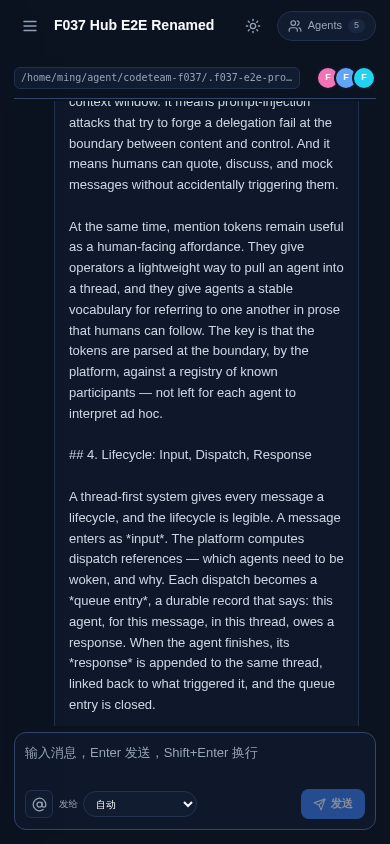
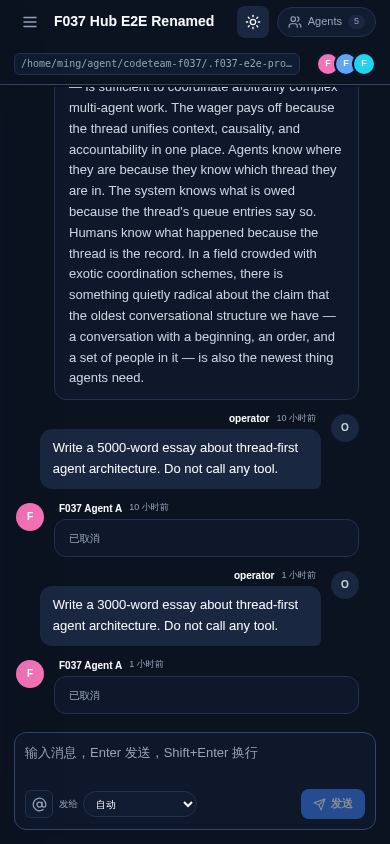
fix(f040): tighten header spacing and full-bleed divider
Why: operator follow-up asked to move the project path closer to the thread title and extend the divider to the main-area left border. ThreadPage is split into centered head/body sections with a full-width divider sibling; topbar/header spacing is reduced; Pencil design and exports are synced.

Changed region(s): [[0.0308, 0.0, 0.9538, 0.8626], [0.8615, 0.4929, 0.8923, 0.5237]]

diff --git a/packages/superagentteam-web/src/app/ThreadPage.tsx b/packages/superagentteam-web/src/app/ThreadPage.tsx
@@ -194,8 +194,9 @@ export function ThreadPage() {
 		name: agents.find((agent) => agent.id === id)?.displayName ?? id,
 	}));
 	return (
-		<section className="st-thread-page" aria-busy={!chatMatches || chatStatus === "loading"}>
-			<header className="st-thread-header">
+		<>
+			<section className="st-thread-page-head" aria-busy={!chatMatches || chatStatus === "loading"}>
+				<header className="st-thread-header">
 				<div className="st-thread-meta-row">
 					<div className="st-thread-header-meta">
 						<code title={thread.projectPath}>{thread.projectPath}</code>
@@ -215,8 +216,10 @@ export function ThreadPage() {
 						</div>
 					) : null}
 				</div>
-			</header>
+				</header>
+			</section>
 			<div className="st-thread-divider" data-testid="thread-header-divider" aria-hidden="true" />
+			<section className="st-thread-page-body" aria-busy={!chatMatches || chatStatus === "loading"}>
 			{deleted ? <p className="st-thread-deleted">这个对话已删除，历史只读。</p> : null}
 			{realtimeStatus === "fallback" ? (
 				<p className="st-realtime-note" role="status">
@@ -284,6 +287,7 @@ export function ThreadPage() {
 				disabled={deleted}
 				disabledReason="这个对话已删除，不能再发送消息。"
 			/>
-		</section>
+			</section>
+		</>
 	);
 }

diff --git a/packages/superagentteam-web/src/styles/global.css b/packages/superagentteam-web/src/styles/global.css
@@ -704,7 +704,7 @@ svg {
 }
 
 .st-topbar {
-	height: 56px;
+	height: 48px;
 	flex: none;
 	display: flex;
 	align-items: center;
@@ -787,6 +787,8 @@ svg {
 	flex: 1;
 	min-height: 0;
 	overflow: hidden;
+	display: flex;
+	flex-direction: column;
 }
 
 .st-live-pills {
@@ -957,16 +959,23 @@ svg {
 	font-size: 12px;
 }
 
-.st-thread-page {
-	height: 100%;
+.st-thread-page-head {
+	flex: none;
 	width: 100%;
 	max-width: 980px;
 	margin: 0 auto;
+	padding: 0 24px;
+}
+
+.st-thread-page-body {
+	flex: 1;
+	min-height: 0;
+	width: 100%;
+	max-width: 980px;
+	margin: 0 auto;
+	padding: 0 24px;
 	display: flex;
 	flex-direction: column;
-	gap: 0;
-	min-height: 0;
-	padding: 0 24px;
 }
 
 .st-thread-header {
@@ -974,7 +983,7 @@ svg {
 	display: flex;
 	flex-direction: column;
 	gap: 6px;
-	padding: 10px 0 8px;
+	padding: 2px 0 8px;
 }
 
 .st-thread-divider {
@@ -2877,7 +2886,7 @@ svg {
 	}
 
 	.st-topbar {
-		height: 52px;
+		height: 44px;
 		padding: 0 14px;
 	}
 
@@ -2897,13 +2906,13 @@ svg {
 		padding: 0;
 	}
 
-	.st-thread-page {
-		max-width: none;
+	.st-thread-page-head,
+	.st-thread-page-body {
 		padding: 0 14px;
 	}
 
 	.st-thread-header {
-		padding-top: 14px;
+		padding-top: 8px;
 	}
 
 	.st-thread-members-count {

diff --git a/docs/features/F040-thread-actions-divider.md b/docs/features/F040-thread-actions-divider.md
@@ -19,8 +19,9 @@ F039 合并后，operator 在验收时又给了两条修正：
 
 1. thread 页内的“重命名”入口应该去掉；所有 thread 编辑都收进 thread 列表行的
    “更多操作”菜单，和 Clowder 的交互一致。
-2. 分隔线不应该紧贴 thread 标题；应下移到项目路径行下方，并横向铺到聊天区左侧。
+2. 分隔线不应该紧贴 thread 标题；应下移到项目路径行下方，并连到主内容区左边框。
 3. 侧栏标题下的 `3 conversations · local dev` 副标题不要了。
+4. thread 标题与项目路径的垂直距离偏大，需要收紧。
 
 这两条是 thread 导航与对话页头部的布局修正，不改消息、A2A、队列、取消语义。
 
@@ -28,8 +29,9 @@ F039 合并后，operator 在验收时又给了两条修正：
 
 - thread 列表每行右侧有“更多操作”按钮；菜单里提供 `重命名对话`，点击后在行内编辑标题。
 - thread 页头部不再有“重命名”按钮或重命名表单；项目路径/成员保留。
-- thread 页头部在项目路径行下方有一条浅色分隔线，横向覆盖聊天内容区；
-  topbar 不再单独画线。
+- thread 页头部在项目路径行下方有一条浅色分隔线，横向贯通主内容区并连到
+  左侧栏边界；topbar 不再单独画线。
+- thread 标题与项目路径的垂直间距收紧。
 - 侧栏头部只保留 `SUPERAGENTTEAM` eyebrow 与 `Threads` 标题，不再显示
   `N conversations · local dev`。
 - 1440/390、浅色/深色一致；Pencil 设计稿同步。
@@ -56,11 +58,13 @@ F039 合并后，operator 在验收时又给了两条修正：
 - [x] AC-1：thread 行有“更多操作”按钮；菜单可打开/关闭，菜单位置不遮挡行内容。
 - [x] AC-2：菜单中的“重命名对话”进入行内编辑；Enter 保存、Escape 取消；失败有可见错误。
 - [x] AC-3：thread 页不再出现“重命名”按钮或重命名表单；项目路径/成员保留。
-- [x] AC-4：分隔线位于项目路径行之后，横向覆盖聊天内容区；topbar 不再单独画线。
+- [x] AC-4：分隔线位于项目路径行之后，横向贯通主内容区（连到左侧栏边界）；
+  topbar 不再单独画线。
 - [x] AC-5：1440/390、浅色/深色截图通过；无横向滚动。
 - [ ] AC-6：web tests / typecheck / build / doc-index 绿；非作者视觉 review。
 - [x] AC-7：Pencil 设计源与 4 张导出图同步更新。
 - [x] AC-8：侧栏头部不再出现 `N conversations · local dev` 副标题。
+- [x] AC-9：thread 标题与项目路径的垂直间距收紧，不再出现大段空白。
 
 ## 风险
 
@@ -73,6 +77,8 @@ F039 合并后，operator 在验收时又给了两条修正：
 - 实现：`ThreadRow` 增加更多操作菜单/行内重命名；`ThreadPage` 移除重命名入口并在
   项目路径行后渲染 `.st-thread-divider`；`ThreadSidebar` 去掉 conversation count 副标题。
 - 样式：topbar 去 border；更多操作按钮 hover/focus 可见，移动端常显；菜单/输入框/错误态。
+- 布局：`.st-content` flex 列；ThreadPage 拆为 head/body 两段，分隔线作为全宽
+  兄弟节点贯通主区；topbar 48/44，header padding-top 2/8。
 - 测试：thread-page / thread-sidebar / thread-row 定向 17 passed；待跑全量。
 - 视觉：`docs/design/F040/` 下 sidebar menu、inline rename、1440/390 浅色/深色。
 - Pencil：Thread 1440/390 顶部分隔线移除，Thread Header Divider 下移到 meta row 后；

diff --git a/docs/features/F038-hub-ui-polish.md b/docs/features/F038-hub-ui-polish.md
@@ -75,9 +75,9 @@ operator 在 F037 验收时给了 4 个具体 UI 反馈：
 - 验证：web 110 passed / typecheck / build / `npm run check` 全绿；1440/390 截图。
 - 证据与 before/after：`docs/reports/2026-11-26-f038-hub-ui-polish.md`；
   截图 `docs/design/F038/`。
-- Pencil 页面设计：`docs/design/F038/F038-design.pen`（4 个 frame / 365 nodes /
-  61 variables；F039 已把消息元信息移到气泡上方并加强 topbar 分隔线）+
-  4 张 1440/390 导出图，和实现截图放在同一目录。
+- Pencil 页面设计：`docs/design/F038/F038-design.pen`（F040 更新后 4 个 frame /
+  363 nodes / 61 variables；F039 已把消息元信息移到气泡上方，F040 已把分隔线
+  下移到项目路径行并贯通主区）＋ 4 张 1440/390 导出图，和实现截图放在同一目录。
 - 非作者 review：墨墨 approve `3f3f36c9a`；独立复核 web 110 / typecheck / build /
   doc index / CI 5/5。
 - PR #215 landed `e3700094b28cd6b09e97a971f11b20e7b640d039`；F038 进入

diff --git a/docs/reports/2026-11-26-f038-hub-ui-polish.md b/docs/reports/2026-11-26-f038-hub-ui-polish.md
@@ -100,10 +100,10 @@ eyebrow 颜色/字号与 Threads 头部不一致。
 设计稿以 F038 已实现的 4 点反馈为基线：Thread 页单标题 + 紧凑 meta + Composer
 上方运行态/停止；Settings 页统一顶层 `Settings` / `Accounts` / `Agents` 与
 eyebrow/title 样式。Settings 内的说明文案仍保留中文，与“不做全局 i18n”的实现边界
-一致。`.pen` 为明文 JSON 设计源（F039 更新后 4 个 frame、365 个节点、61 个变量），
+一致。`.pen` 为明文 JSON 设计源（F040 更新后 4 个 frame、363 个节点、61 个变量），
 重新导出的 4 张 PNG 与上述设计图逐像素一致。F039 已把消息姓名/时间移到气泡上方，
 并把 thread 标题下的分隔线提升为 `hairline-strong`；F040 已把分隔线进一步下移到
-项目路径行下方。
+项目路径行下方，并贯通主内容区左侧边界。
 
 ## 验证
 

diff --git a/docs/features/F039-conversation-layout-polish.md b/docs/features/F039-conversation-layout-polish.md
@@ -72,8 +72,9 @@ rich block 语义。
 - 样式：`.st-topbar` 分隔线提升到 `--st-hairline-strong`；390/1440 同步。
 - 测试：web 114 passed（25 files）；web typecheck / `build:offline` 通过。
 - 视觉：`docs/design/F039/` 下 1440/390 浅色/深色截图。
-- Pencil：4 个 frame / 365 nodes / 61 variables；Thread 1440/390 已加顶部分隔线、
-  消息 meta 移到气泡上方，operator 标签改为 `operator`；4 张 PNG 重新导出。
+- Pencil：F039 时点 4 个 frame / 365 nodes / 61 variables；F040 更新后 363 nodes。
+  Thread 1440/390 已加顶部分隔线、消息 meta 移到气泡上方，operator 标签改为
+  `operator`；4 张 PNG 重新导出。
 - 证据：`docs/reports/2026-11-26-f039-conversation-layout-polish.md`。
 - 非作者 review：墨墨 approve `791c54c7a`；独立复核 web 114 / typecheck / doc index /
   CI 5/5 / 4 张实机截图。

diff --git a/docs/plans/0049-f040-thread-actions-divider.md b/docs/plans/0049-f040-thread-actions-divider.md
@@ -31,7 +31,9 @@ source_decision: "operator 2026-11-26 conversation list/header feedback"
 
 - 移除 `ThreadPage` 的重命名 state/handler/form/link。
 - `.st-topbar` 移除 `border-bottom`。
-- header 后插入 `.st-thread-divider`，横跨 `.st-thread-page` 内容宽度。
+- `.st-content` 改为 flex 列；`ThreadPage` 拆为 `.st-thread-page-head` 与
+  `.st-thread-page-body`，`.st-thread-divider` 作为全宽兄弟节点横跨主内容区。
+- `.st-topbar` 高度收到 48/44，header padding-top 收到 2/8，收紧标题与路径间距。
 - 保持项目路径/成员在 divider 上方，消息在下方。
 
 ## 3b. 侧栏标题去掉副标题
